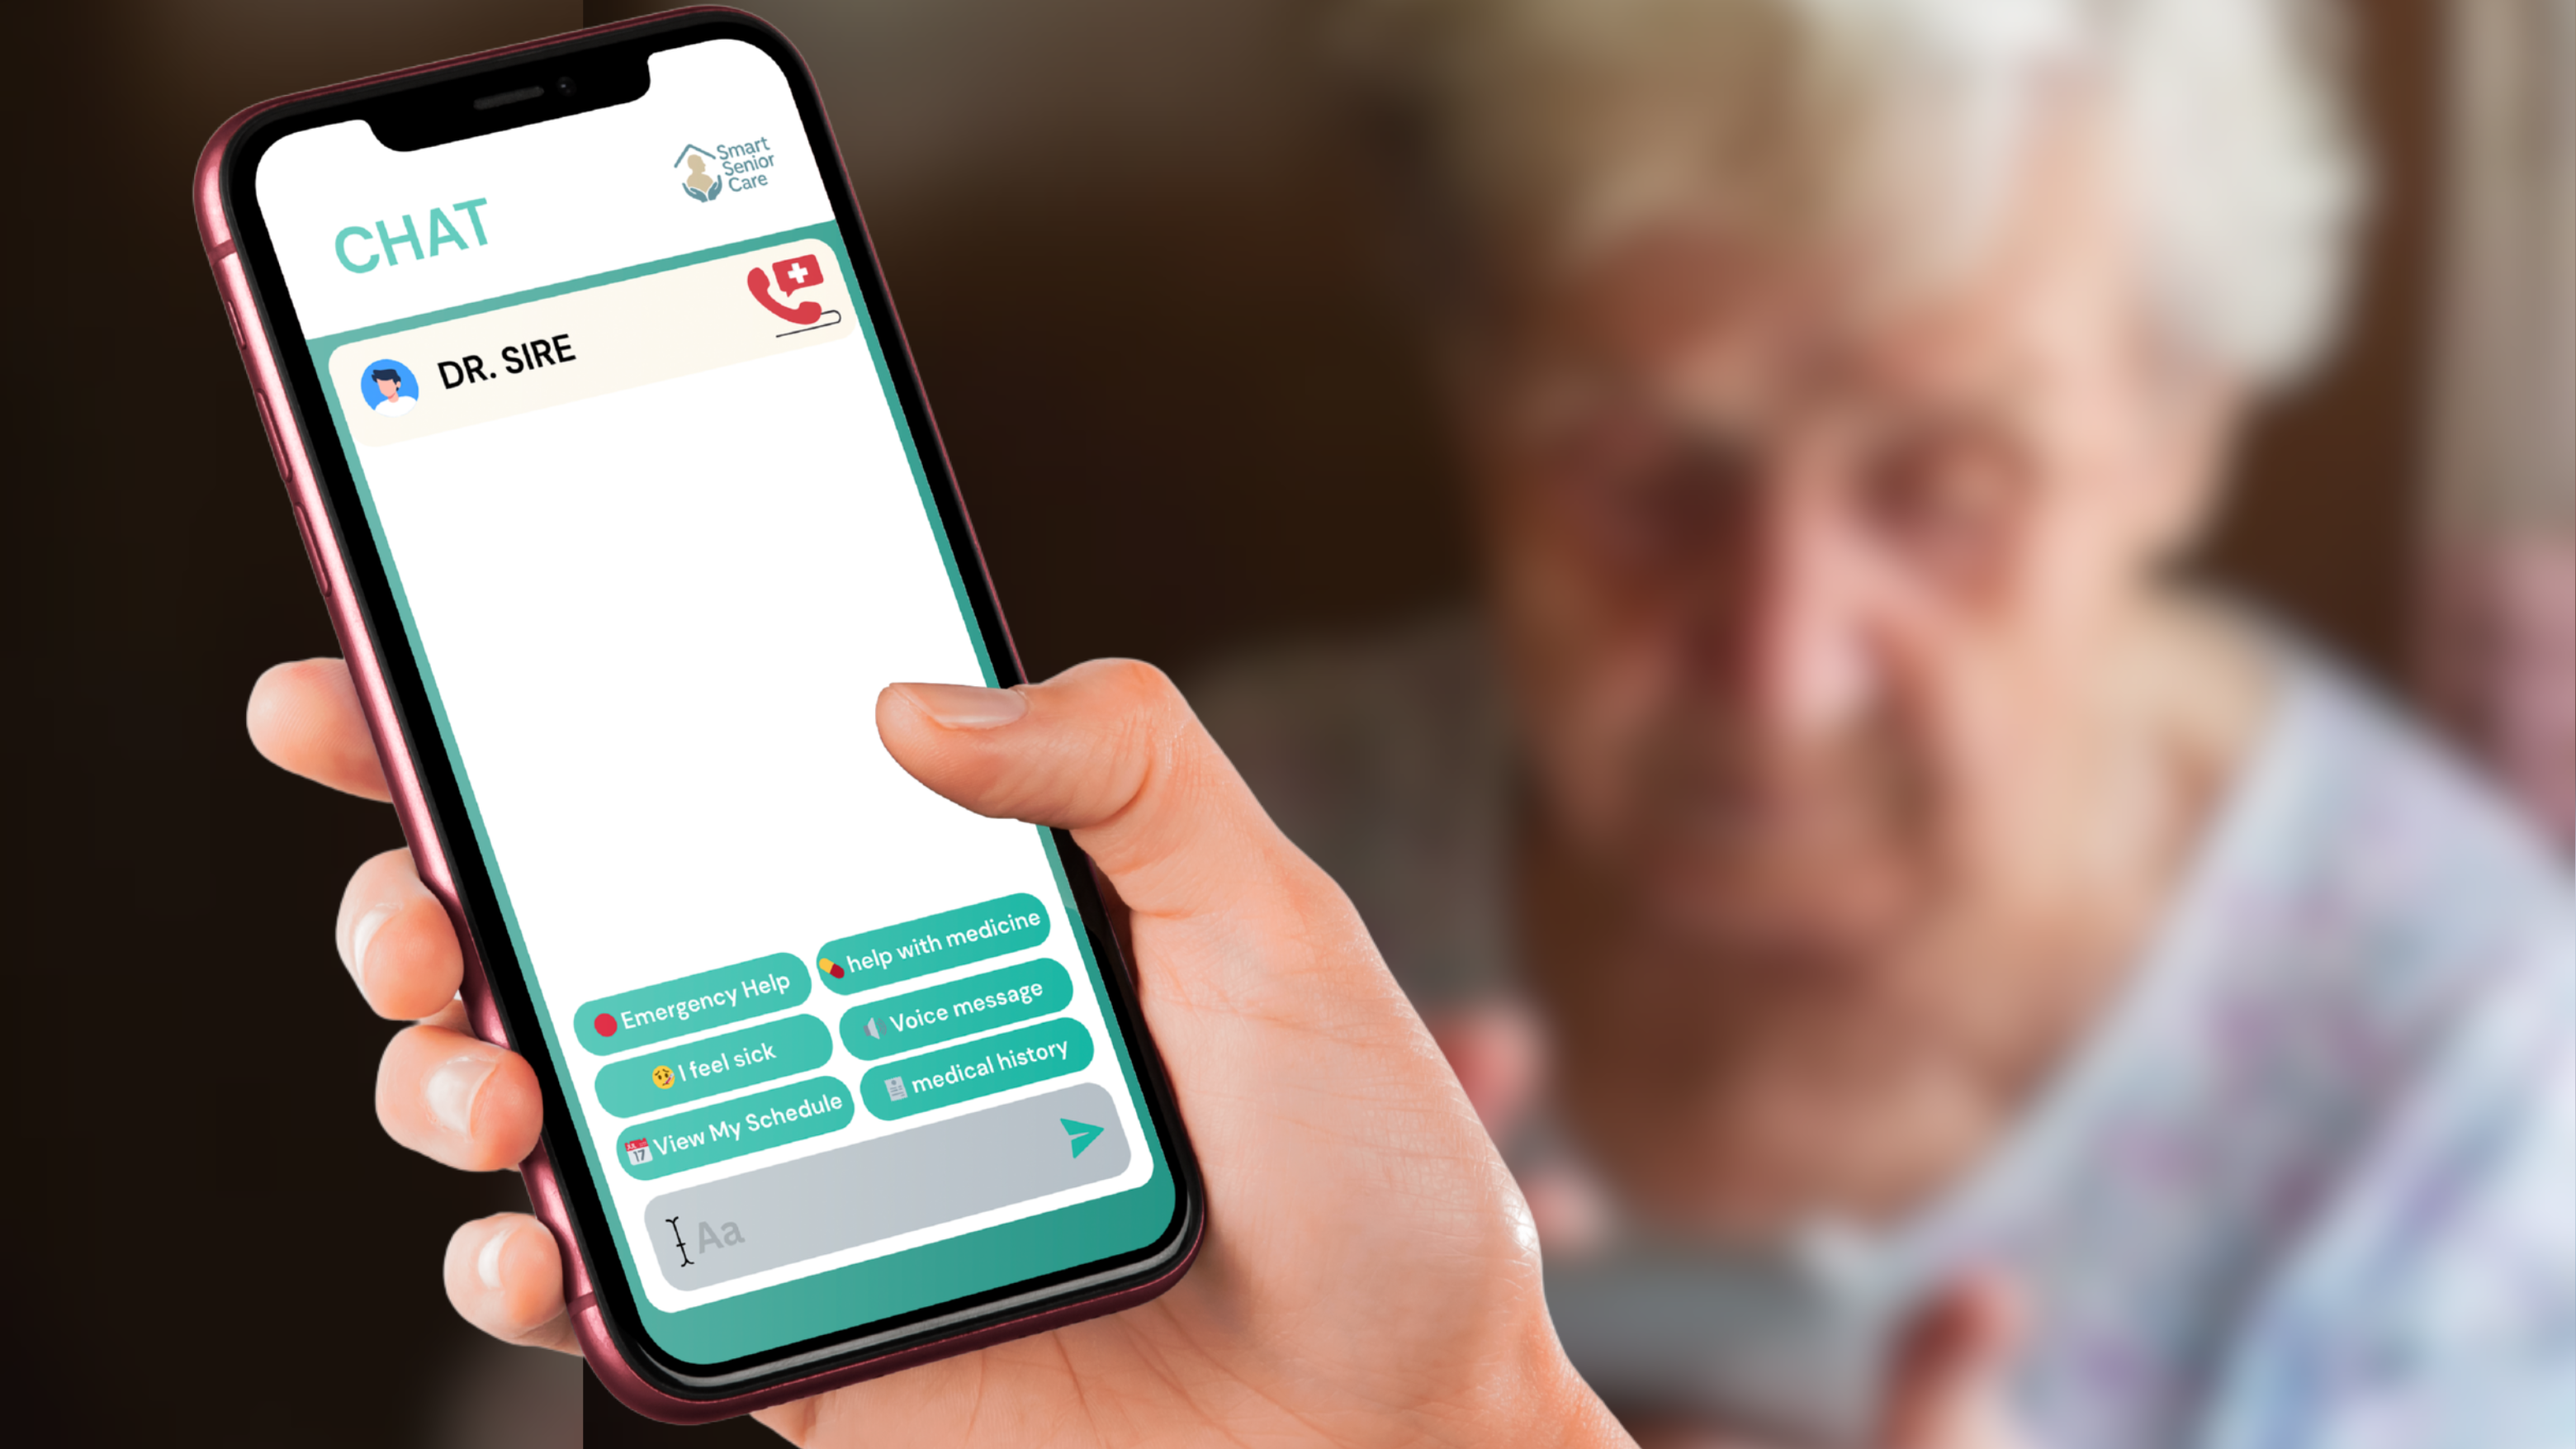
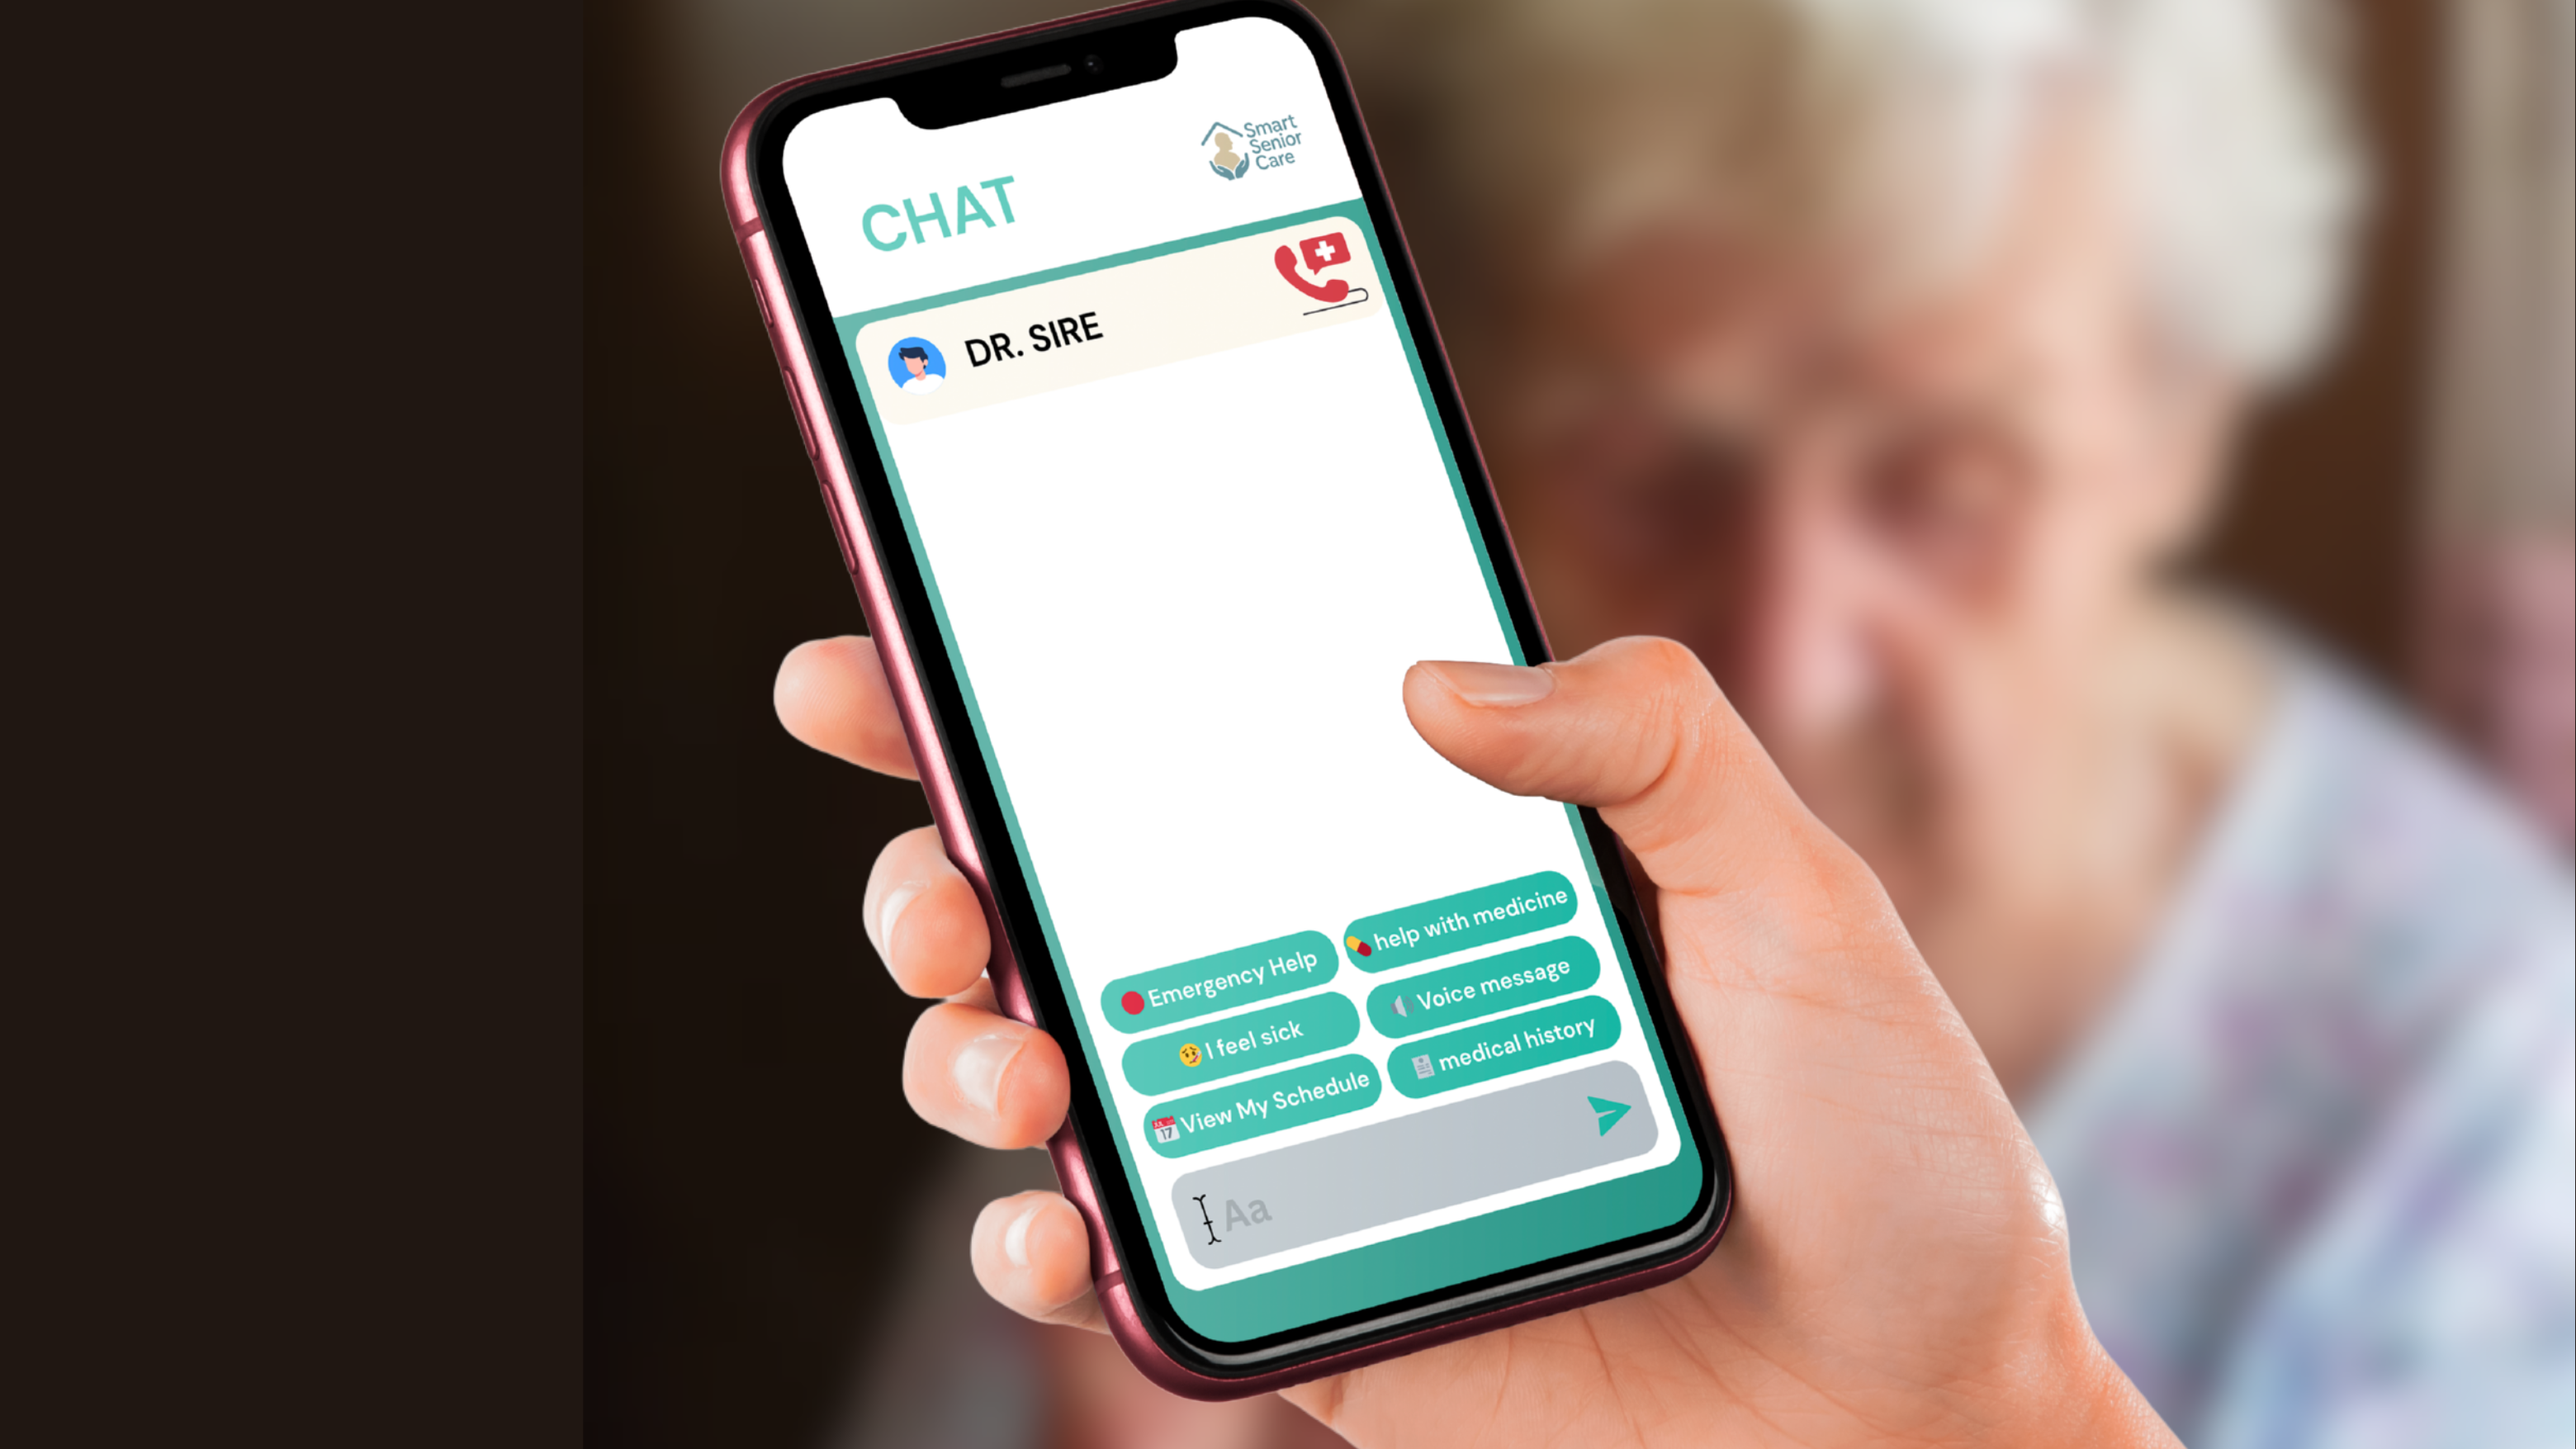
v2.3

diff --git a/css/style.css b/css/style.css
@@ -20,7 +20,7 @@ body {
   align-items: center;
   background: #fff;
   padding: 16px 28px;
-  position: sticky; /* stays on top when scrolling */
+  position: sticky;
   top: 0;
   z-index: 9999;
   box-shadow: 0 2px 6px rgba(0,0,0,0.08);
@@ -29,7 +29,6 @@ body {
 .navlogo {
   height: 52px;
 }
-
 
 /* Nav links */
 .nav-btn a {
@@ -100,74 +99,54 @@ h2 {
   margin-bottom: 40px;
 }
 
-/* Features section */
+/* Features section container */
 #features {
   background: #f0f4f8;
   text-align: center;
 }
 
-/* Responsive grid */
-.feature-grid {
+/* ========== NEW FEATURE FULL-WIDTH SECTIONS ========== */
+/* Features grid */
+.features-sections {
   display: grid;
   grid-template-columns: repeat(auto-fit, minmax(280px, 1fr));
   gap: 20px;
 }
 
-/* Feature card */
-.feature-box {
-  background: white;
-  padding: 15px;
-  border-radius: 10px;
-  transition: 0.3s;
+/* Feature cards */
+.feature-section {
+  height: 300px;
+  border-radius: 15px;
+  background-size: cover;
+  background-position: center;
+  background-repeat: no-repeat;
+  position: relative;
+  overflow: hidden;
+  display: flex;
+  align-items: flex-end;
+  justify-content: center;
+  text-align: center;
 }
 
-.feature-box img {
-  width: 100%;
-  object-fit: cover;
+/* Dark overlay */
+.feature-section::before {
+  content: "";
+  position: absolute;
+  inset: 0;
+  background: rgba(0,0,0,0.4);
 }
 
-.feature-box:hover {
-  transform: translateY(-6px);
-  box-shadow: 0 6px 12px rgba(0,0,0,0.1);
+/* Title text */
+.feature-section h3 {
+  position: relative;
+  z-index: 2;
+  color: #fff;
+  font-size: 1.5rem;
+  font-weight: 700;
+  margin-bottom: 20px;
+  padding: 0 10px;
 }
 
-/* UI preview images */
-.ui-img {
-  margin-top: 10px;
-  border-radius: 8px;
-}
-
-/* Feature icons */
-.icons {
-  max-width: 120px;
-  margin: 0 auto 10px;
-}
-
-h3 {
-  color: #2b4c7e;
-  margin-bottom: 10px;
-}
-
-/* Feature description text */
-.feature-box p {
-  max-width: 250px;
-  margin: 10px auto;
-  color: #444;
-}
-
-/* Benefits section */
-.benefits-section ul {
-  list-style: none;
-  max-width: 700px;
-  margin: 0 auto;
-}
-
-.benefits-section li {
-  background: #fff;
-  padding: 18px 22px;
-  border-radius: 12px;
-  box-shadow: 0 2px 6px rgba(0,0,0,0.05);
-}
 
 /* About section */
 #about {
@@ -269,7 +248,7 @@ footer {
   display: inline-block;
 }
 
-/* Make the Features link look like others */
+/* Features link */
 .drop-btn {
   margin: 0 15px;
   color: #2b4c7e;
@@ -297,7 +276,7 @@ footer {
   z-index: 99999;
 }
 
-/* Show dropdown on hover (desktop) */
+/* Show dropdown (desktop hover) */
 .dropdown:hover .dropdown-menu {
   display: block;
 }
@@ -335,15 +314,11 @@ footer {
   }
 
   .nav-btn.active {
-    display: flex; /* show on toggle */
+    display: flex;
   }
 
   .nav-btn a {
     margin: 8px 0;
-  }
-
-  .icons {
-    max-width: 90px;
   }
 
   .dropdown {
@@ -357,6 +332,10 @@ footer {
   }
 
   .dropdown:hover .dropdown-menu {
-    display: block; /* always open on tap */
+    display: block; /* for tap */
+  }
+
+  .icons {
+    max-width: 90px;
   }
 }

diff --git a/index.html b/index.html
@@ -9,7 +9,7 @@
   <link rel="icon" type="image/x-icon" href="assets/img/SmartSeniorCareLogo.png">
   <title>Smart Senior Care Platform</title>
   <!-- Link to external CSS (versioned for cache refresh) -->
-  <link rel="stylesheet" href="css/style.css?v=2.2">
+  <link rel="stylesheet" href="css/style.css?v=2.3">
 </head>
 
 <body>
@@ -59,33 +59,27 @@
 
   <!-- FEATURES SECTION -->
   <section id="features">
-    <div class="center">
-      <h2>Key Features</h2>
+  <h2 class="center">Key Features</h2>
 
-      <!-- Grid for feature cards -->
-      <div class="feature-grid">
+  <div class="features-sections">
 
-        <!-- Feature 1 -->
-        <div id="healthmanagement" class="feature-box">
-          <h3>Personalized Health Management</h3>
-          <img class="ui-img" src="assets/img/HealthManagement_mockup.png">
-        </div>
+    <!-- Feature 1 -->
+    <section id="healthmanagement" class="feature-section" style="background-image: url('assets/img/HealthManagement_mockup.png');">
+      <h3>Personalized Health Management</h3>
+    </section>
 
-        <!-- Feature 2 -->
-        <div id="medicationsupport" class="feature-box">
-          <h3>Medication Adherence Support</h3>
-          <img class="ui-img" src="assets/img/MedicationReminder_mockup.png">
-        </div>
+    <!-- Feature 2 -->
+    <section id="medicationsupport" class="feature-section" style="background-image: url('assets/img/MedicationReminder_mockup.png');">
+      <h3>Medication Adherence Support</h3>
+    </section>
 
-        <!-- Feature 3 -->
-        <div id="communicationtool" class="feature-box">
-          <h3>Easy Communication <br> Tools</h3>
-          <img class="ui-img" src="assets/img/CommunicationTool_mockup.png">
-        </div>
+    <!-- Feature 3 -->
+    <section id="communicationtool" class="feature-section" style="background-image: url('assets/img/CommunicationTool_mockup.png');">
+      <h3>Easy Communication Tools</h3>
+    </section>
 
-      </div>
-    </div>
-  </section>
+  </div>
+</section>
 
   <!-- ---------- ABOUT SECTION ---------- -->
   <section id="about" class="center">
